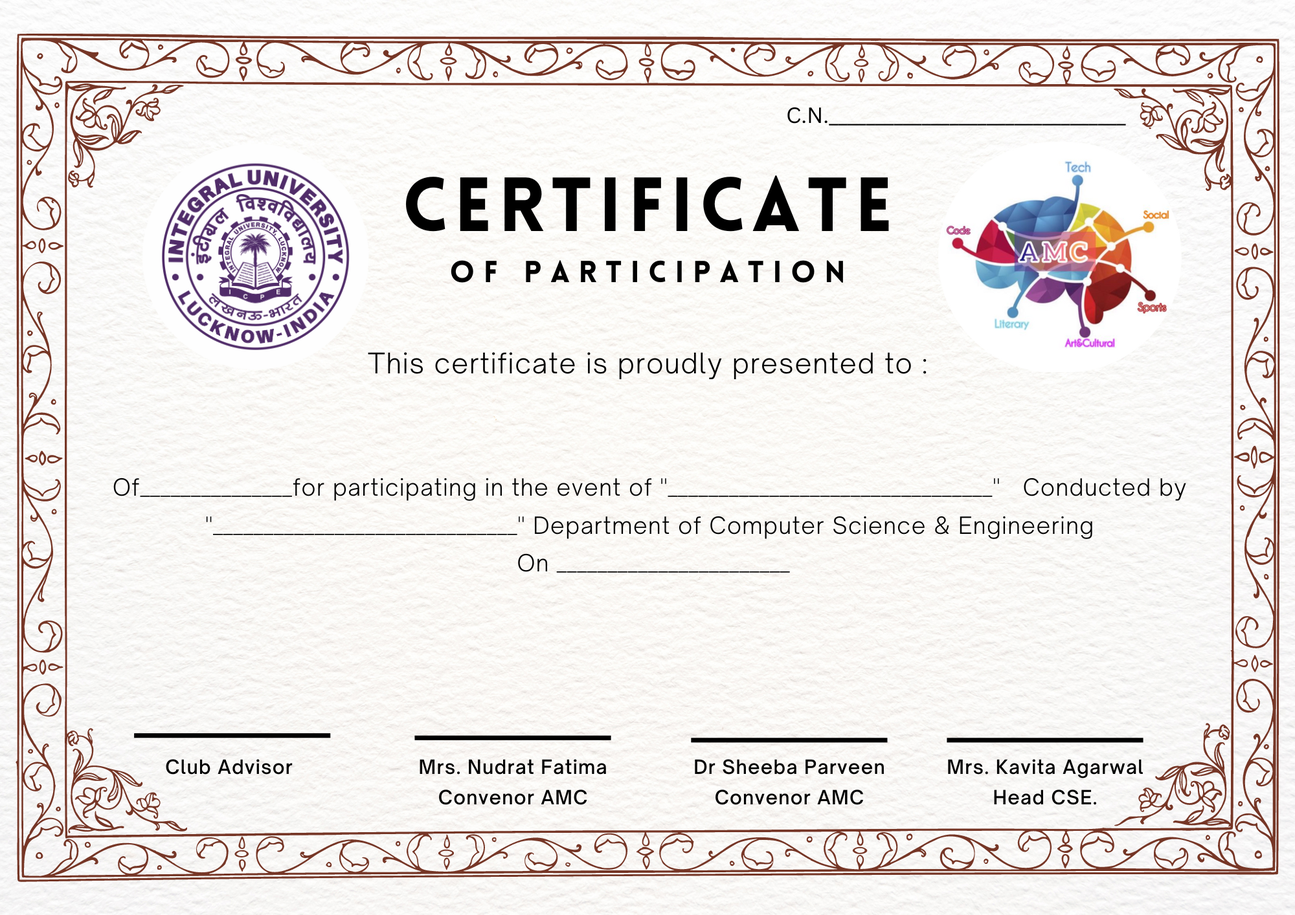
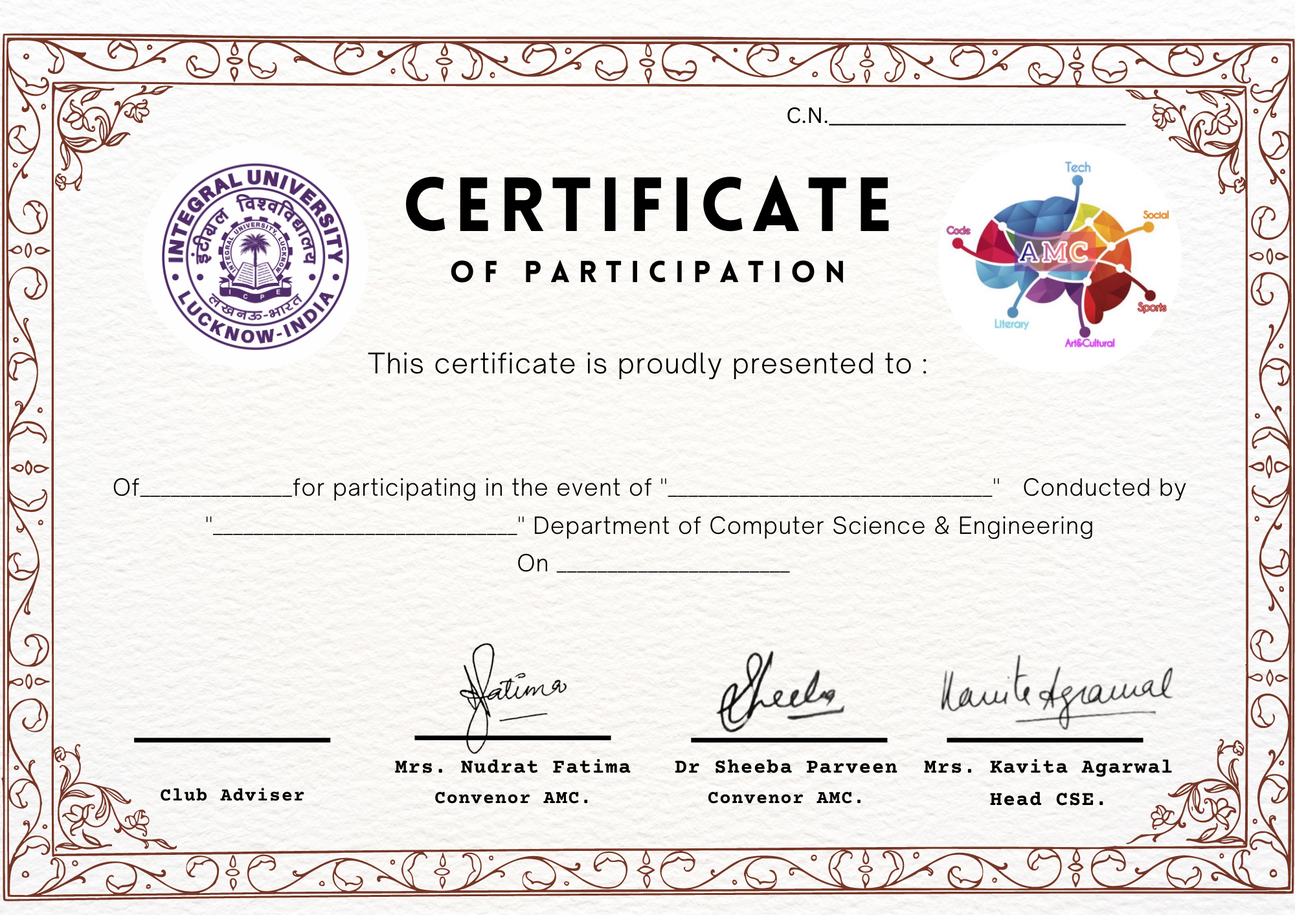
certificate feild updated

Changed region(s): [[0.0, 0.0311, 1.0, 0.9958], [0.341, 0.7157, 0.434, 0.7779]]

diff --git a/src/components/Participationc.jsx b/src/components/Participationc.jsx
@@ -1,0 +1,151 @@
+import React from 'react'
+import { useState } from 'react';
+import jsPDF from "jspdf"
+import PCertificate from '../certificate/participationC.png'
+import akbarsir from '../Signatures/akbarsir.png'
+import anwarsir from '../Signatures/anwarsir.png'
+import faiyazsir from '../Signatures/faiyazsir.png'
+import suaibsir from '../Signatures/suaibsir.png'
+import usmansir from '../Signatures/usmansir.png'
+
+
+
+
+
+
+ function Participationc() {
+
+  const CLUBADVISOR=["Mr Mohd Suaib" ,"Dr Mohd Akbar","Mr Mohd Usman khan", "Mrs Saleha mariyam","Dr Faiyaz Ahamad","Mr Anwar Ahmad Sheikh"]
+
+    const [sName, setsName] = useState("");
+    const[YearB, setYearB] = useState("")
+    const [sEname, setEname] = useState("");
+    const [Cname, setCname] = useState("");
+    const [Ed, setEd] = useState("");
+    const [CA,setCA]= useState("");
+
+  
+   const pdfGenerator=()=>{
+    
+         var doc= new jsPDF('landscape','px','a4','false');
+         doc.addImage(PCertificate,'PNG',65,20,500,400);
+             doc.setFontSize(15);
+             doc.setFont('courier', 'bolditalic');
+             doc.text(242,200,sName,);  // Student Name
+             
+             doc.setFontSize(13);
+             doc.setFont('time','bold',);
+             doc.text(122,235,YearB);    // Year branch
+             doc.text(328,235,sEname); // Event name
+             doc.text(150,252,Cname);  // Club name
+             doc.text(290,267,Ed); // event Date
+
+             if (CA===CLUBADVISOR[0]){
+              doc.addImage(suaibsir,'PNG',130,310,50,40);
+              doc.setFont('courier');
+              doc.setFontSize(12);
+              doc.text(123,358,CLUBADVISOR[0])
+            }else if (CA===CLUBADVISOR[1]){
+              doc.addImage(akbarsir,'PNG',115,280,90,80)
+              doc.setFont('courier');
+              doc.setFontSize(12);
+              doc.text(123,358,CLUBADVISOR[1])
+            }else if (CA===CLUBADVISOR[2]){
+              doc.addImage(usmansir,'PNG',115,280,90,80)
+              doc.setFont('courier');
+              doc.setFontSize(12);
+              doc.text(105,358,CLUBADVISOR[2])
+            }else if (CA===CLUBADVISOR[3]){
+              doc.addImage() 
+              doc.setFont('courier');
+              doc.setFontSize(12);
+              doc.text(110,350,CLUBADVISOR[3])                           // saleha mam
+            }else if (CA===CLUBADVISOR[4]){
+              doc.addImage(faiyazsir,'PNG',130,300,50,40)
+              doc.setFont('courier');
+              doc.setFontSize(12);
+              doc.text(125,358,CLUBADVISOR[4])
+            }else if (CA===CLUBADVISOR[5])
+            {
+              doc.addImage(anwarsir,'PNG',130,314,50,40)
+              doc.setFont('courier');
+              doc.setFontSize(11.5);
+              doc.text(100,358,CLUBADVISOR[5])
+            }
+
+
+
+         doc.save(`${sName}'s_${sEname}certificate.pdf`);
+    }
+
+
+
+
+
+
+
+
+
+
+  return (
+    <>
+     
+       <div className="text-center">
+        
+        <h2>Participation Certificate</h2>
+       
+       </div>
+      <div className="container form-outline mt-4  py-2 px-3">
+        <form >
+         
+          <label for="fname" >Student Name:</label>
+          <input class="form-control mb-3" type="text" id="fname" name="fname" onChange={(e)=>setsName(e.target.value)} />
+          
+          <label for="YB">Year/branch:</label>
+          <input class="form-control mb-3" type="text" id="YB" name="YB" onChange={(e)=>setYearB(e.target.value)} />
+         
+          
+          
+          
+          
+          
+          <label for="ClubN">Enter Club Name :</label>
+          <input class="form-control mb-3" type="text" id="ClubN" name="ClubN" onChange={(e)=>setCname(e.target.value)}/>
+          
+          <label for="Edate">Enter Event Date </label>
+          <input class="form-control mb-3" type="date" id="Edate" name="Edate" onChange={(e)=>setEd(e.target.value)}/>
+          
+          <label for="EventName">Enter Event Name </label>
+          <input class="form-control mb-3"  id="EventName" name="EventName" onChange={(e)=>setEname(e.target.value)}/>
+
+          <label for="CA">Select Your Club Advisor</label>
+          <select name="CA" className="form-control mb-3" onChange={(e)=>setCA(e.target.value)}>
+          <option deafault selected disabled >Choose an option</option>
+          {/* {CA.map((value) => (
+                  <option>{value}</option>
+                ))} */}
+                <option>Mr Mohd Suaib</option>
+                <option>Dr Mohd Akbar</option>
+                <option>Mr Mohd Usman khan</option>
+                <option>Mrs Saleha mariyam</option>
+                <option>Dr Faiyaz Ahamad</option>
+                <option>Mr Anwar Ahmad Sheikh</option>
+
+
+          </select>
+          
+         <br/>
+          <button className="bg-info btn text-center " onClick={pdfGenerator}>Download Certificate</button>
+        </form>
+      </div>
+      
+     
+
+     
+     
+      
+    </>
+  )
+}
+
+export default Participationc;

diff --git a/src/App.js b/src/App.js
@@ -1,85 +1,43 @@
 import "./App.css";
-import Footer from "./components/footer";
-import Header from "./components/header";
-import jsPDF from "jspdf"
-import ACertificate from '../src/certificate/appreciationC.png'
+
 // eslint-disable-next-line
-import PCertificate from '../src/certificate/participationC.png'// eslint-disable-next-line
 import { useState } from 'react';
+import Appreciation from "./components/Appreciation";
+import Participationc from "./components/Participationc";
+import Header from "./components/header";
+import Footer from "./components/footer";
 
 
 // const events = ["Skit" , "Singing Competition" , "Feel the Reel","xquizite","Ibm Bootcamp " ,
 // " SDP: Entrepreneurship Skills" , "Guest Lecture on Cyber Security Awareness and it's Emerging Trends ","Just-A-Minute(JAM)",
 // " Feel The Reel","Badminton"];
 const App=()=> {
-  const [sName, setsName] = useState("");
-  const[YearB, setYearB] = useState("")
-  const[position, setPosition] = useState("");
-  const [sEname, setEname] = useState("");
-  const [Cname, setCname] = useState("");
-  const [Ed, setEd] = useState("");
-
- const pdfGenerator=()=>{
+  const [selectedForm,setSelectedForm]=useState(0);
   
-       var doc= new jsPDF('landscape','px','a4','false');
-       doc.addImage(ACertificate,'PNG',65,20,500,400);
-           doc.setFontSize(15);
-           doc.setFont('courier', 'bolditalic');
-           doc.text(238,200,sName,);  // Student Name
-           
-           doc.setFontSize(13);
-           doc.setFont('time','bold',);
-           doc.text(122,232,YearB);    // Year branch
-           doc.text(233,232,position); // position
-           doc.text(358,232,sEname); // Event name
-           doc.text(173,247,Cname);  // Club name
-           doc.text(290,261,Ed); // event Date
-       doc.save(`${sName}'s_${sEname}certificate.pdf`);
+return(
+  <>
+  <Header/>
+  <h2 className="text-center">Active Mind Club</h2>
+  <h4 className="text-center">Certificate Generator</h4>
+  <div className="text-center container mb-5 mt-5 bg-light">
+  <h5>Choose Type of certificate you want to Genearte :</h5>
+
+  <label   >Appreciation Certificate</label>
+  <input checked={selectedForm===0} type="radio" onClick={()=>setSelectedForm(0)}></input><br/>
+  <label >Participation Certificate</label>
+  <input checked={selectedForm===1} type="radio" onClick={()=>setSelectedForm(1)}></input>
+  
+  </div>
+  
+  {
+    selectedForm?<Participationc/>:<Appreciation/>
   }
+ 
+  <Footer/>
+  </>
 
-  return (
-    <>
-      <Header />
-       <div className="text-center">
-        <h2>Active Mind Club</h2>
-        <h2>Certificate Generator</h2>
-        <h4 className="text-muted">(Participation Certificate will be available soon)</h4>
-       </div>
-      <div className="container form-outline mt-4  py-2 px-3">
-        <form >
-         
-          <label for="fname" >Student Name:</label>
-          <input class="form-control mb-3" type="text" id="fname" name="fname" onChange={(e)=>setsName(e.target.value)} />
-          
-          <label for="YB">Year/branch:</label>
-          <input class="form-control mb-3" type="text" id="YB" name="YB" onChange={(e)=>setYearB(e.target.value)} />
-         
-          <label for="POS">Position:</label>
-          <input class="form-control mb-3" type="text" id="POS" name="POS" onChange={(e)=>setPosition(e.target.value)} />
-          
-          
-          
-          
-          <label for="ClubN">Enter Club Name :</label>
-          <input class="form-control mb-3" type="text" id="ClubN" name="ClubN" onChange={(e)=>setCname(e.target.value)}/>
-          
-          <label for="Edate">Enter Event Date </label>
-          <input class="form-control mb-3" type="date" id="Edate" name="Edate" onChange={(e)=>setEd(e.target.value)}/>
-          
-          <label for="EventName">Enter Event Name </label>
-          <input class="form-control mb-3"  id="EventName" name="EventName" onChange={(e)=>setEname(e.target.value)}/>
-         
-          
-         <br/>
-          <button className="bg-info btn text-center " onClick={pdfGenerator}>Downlaod Certificate</button>
-        </form>
-      </div>
-      
-      <Footer />
+);
 
-      
-    </>
-  );
 }
 
 export default App;

diff --git a/src/components/Appreciation.jsx b/src/components/Appreciation.jsx
@@ -1,0 +1,89 @@
+
+import { useState } from 'react';
+import jsPDF from "jspdf"
+import ACertificate from '../certificate/appreciationC.png'
+
+
+// const events = ["Skit" , "Singing Competition" , "Feel the Reel","xquizite","Ibm Bootcamp " ,
+// " SDP: Entrepreneurship Skills" , "Guest Lecture on Cyber Security Awareness and it's Emerging Trends ","Just-A-Minute(JAM)",
+// " Feel The Reel","Badminton"];
+
+
+const CLUBADVISOR =["Mr Mohd Suaib","Dr mohd Akbar","Mr Mohd Usman khan","Mrs Saleha mariyam","Dr Faiyaz ahmad","Mr Anwar Ahmad Sheikh"]
+const Appreciation=()=> {
+  const [sName, setsName] = useState("");
+  const[YearB, setYearB] = useState("")
+  const[position, setPosition] = useState("");
+  const [sEname, setEname] = useState("");
+  const [Cname, setCname] = useState("");
+  const [Ed, setEd] = useState("");
+
+ const pdfGenerator=()=>{
+  
+       var doc= new jsPDF('landscape','px','a4','false');
+       doc.addImage(ACertificate,'PNG',65,20,500,400);
+           doc.setFontSize(15);
+           doc.setFont('courier', 'bolditalic');
+           doc.text(238,200,sName,);  // Student Name
+           
+           doc.setFontSize(13);
+           doc.setFont('time','bold',);
+           doc.text(122,232,YearB);    // Year branch
+           doc.text(233,232,position); // position
+           doc.text(358,232,sEname); // Event name
+           doc.text(173,247,Cname);  // Club name
+           doc.text(290,261,Ed); // event Date
+
+         
+       doc.save(`${sName}'s_${sEname}_certificate.pdf`);
+  }
+
+  return (
+    <>
+      
+       <div className="text-center">
+        
+        
+        <h2>Appreciation Certificate</h2>
+       </div>
+      <div className="container form-outline mt-4  py-2 px-3">
+        <form >
+         
+          <label for="fname" >Student Name:</label>
+          <input class="form-control mb-3" type="text" id="fname" name="fname" onChange={(e)=>setsName(e.target.value)} />
+          
+          <label for="YB">Year/branch:</label>
+          <input class="form-control mb-3" type="text" id="YB" name="YB" onChange={(e)=>setYearB(e.target.value)} />
+         
+          <label for="POS">Position:</label>
+          <input class="form-control mb-3" type="text" id="POS" name="POS" onChange={(e)=>setPosition(e.target.value)} />
+          
+          
+          
+          
+          <label for="ClubN">Enter Club Name :</label>
+          <input class="form-control mb-3" type="text" id="ClubN" name="ClubN" onChange={(e)=>setCname(e.target.value)}/>
+          
+          <label for="Edate">Enter Event Date </label>
+          <input class="form-control mb-3" type="date" id="Edate" name="Edate" onChange={(e)=>setEd(e.target.value)}/>
+          
+          <label for="EventName">Enter Event Name </label>
+          <input class="form-control mb-3"  id="EventName" name="EventName" onChange={(e)=>setEname(e.target.value)}/>
+          
+          
+          
+         
+          
+         <br/>
+          <button className="bg-info btn text-center " onClick={pdfGenerator}>Download Certificate</button>
+        </form>
+      </div>
+      
+      
+
+      
+    </>
+  );
+}
+
+export default Appreciation;
